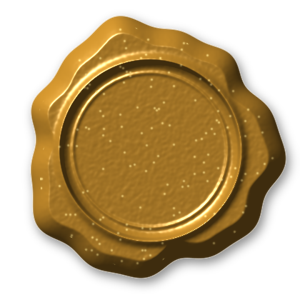
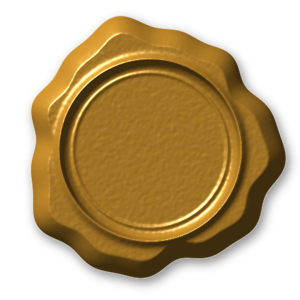
Show seal mix-ins and edge, centre the pressed letters
Mix-ins (gold flecks, glitter, twigs, petals, ribbon) now render as layers on
every seal, a new edge option picks a poured or clean edge, and the monogram
sits at the centre of the wax.

Claude-Session: https://claude.ai/code/session_016FXJrYWe26Fg4ZPAV7iHes

diff --git a/src/screens/Setup.tsx b/src/screens/Setup.tsx
@@ -29,6 +29,11 @@ export function SealDesigner({ draft, set }: { draft: Profile; set: (p: Partial<
           <button key={k} className={`sw${draft.wax === k ? ' on' : ''}`} style={swatch(hex)} aria-label={label} aria-pressed={draft.wax === k} onClick={() => set({ wax: k })} />
         ))}</div>
       </section>
+      <section className="stack"><h2>Edge</h2>
+        <div className="chips">{([['uneven', 'Poured'], ['clean', 'Pressed clean']] as const).map(([k, label]) => (
+          <button key={k} className={`chip${(draft.edge ?? 'uneven') === k ? ' on' : ''}`} aria-pressed={(draft.edge ?? 'uneven') === k} onClick={() => set({ edge: k })}>{label}</button>
+        ))}</div>
+      </section>
       <section className="stack"><h2>Pressed into the wax</h2>
         <div className="chips">{MIXINS.map(([k, label]) => {
           const on = draft.mixins.includes(k);
@@ -81,7 +86,7 @@ export default function Setup({ step }: { step: 'seal' | 'owl' }) {
         <SealDesigner draft={draft} set={set} />
         <div className="foot">
           <button className="btn wax" disabled={!draft.name.trim()} onClick={async () => {
-            await saveMe({ name: draft.name.trim(), monogram: draft.monogram, wax: draft.wax, mixins: draft.mixins });
+            await saveMe({ name: draft.name.trim(), monogram: draft.monogram, wax: draft.wax, mixins: draft.mixins, edge: draft.edge ?? 'uneven' });
             go(me.onboarded ? 'profile' : 'setup/owl');
           }}>{me.onboarded ? 'Save my seal' : 'Press your seal'}</button>
         </div>

diff --git a/src/components/bits.tsx b/src/components/bits.tsx
@@ -6,13 +6,18 @@ import { go } from '../lib/router';
 import { useStore } from '../lib/store';
 
 /** A pressed wax seal: real wax image with the person's monogram embossed into it. */
-export function Seal({ p, size = 56, label }: { p: Pick<Profile, 'wax' | 'monogram' | 'name'>; size?: number; label?: string }) {
+const ON_TOP = ['gold', 'glitter', 'twigs', 'petals'];
+
+export function Seal({ p, size = 56, label }: { p: Pick<Profile, 'wax' | 'monogram' | 'name'> & Partial<Pick<Profile, 'mixins' | 'edge'>>; size?: number; label?: string }) {
   const mono = (p.monogram || p.name.slice(0, 1) || '·').toUpperCase();
+  const mix = p.mixins ?? [];
   return (
     <span className="seal" role={label ? 'img' : undefined} aria-label={label} aria-hidden={label ? undefined : true}
       style={{ width: size, height: size, fontSize: size * (mono.length > 1 ? 0.24 : 0.32) }}>
-      <img src={`/assets/wax-${p.wax}.png`} alt="" width={size} height={size} />
-      <span className="mono">{mono}</span>
+      {mix.includes('ribbon') && <img src="/assets/mix-ribbon.png" alt="" width={size} height={size} />}
+      <img src={`/assets/wax-${p.wax}${p.edge === 'clean' ? '-clean' : ''}.png`} alt="" width={size} height={size} />
+      {ON_TOP.filter((m) => mix.includes(m)).map((m) => <img key={m} src={`/assets/mix-${m}.png`} alt="" width={size} height={size} />)}
+      <span className="mono"><span>{mono}</span></span>
     </span>
   );
 }

diff --git a/src/styles.css b/src/styles.css
@@ -67,9 +67,10 @@ textarea { resize: vertical; line-height: 1.5 }
 .wordmark .seal { margin-bottom: 7px }
 
 .seal { position: relative; display: inline-block; flex: none; line-height: 0 }
-.seal img { width: 100%; height: 100% }
+.seal img { position: absolute; inset: 0; width: 100%; height: 100% }
 .seal .mono { position: absolute; inset: 0; display: flex; align-items: center; justify-content: center; font-family: var(--serif); font-style: italic; font-weight: 600; line-height: 1;
-  color: rgba(0, 0, 0, .34); text-shadow: 0 1px 0 rgba(255, 255, 255, .22), 0 -1px 1px rgba(0, 0, 0, .25); transform: translateY(-2%) }
+  color: rgba(0, 0, 0, .34); text-shadow: 0 1px 0 rgba(255, 255, 255, .22), 0 -1px 1px rgba(0, 0, 0, .25) }
+.seal .mono span { display: block; transform: translateY(var(--mono-y, .03em)) }
 .owl { display: block; flex: none }
 .stamp { flex: none }
 

diff --git a/src/lib/types.ts b/src/lib/types.ts
@@ -8,6 +8,7 @@ export interface Profile {
   monogram: string;
   wax: Wax;
   mixins: string[];
+  edge: 'uneven' | 'clean';
   plume: Plume;
   eye: Eye;
   owl_name: string;
